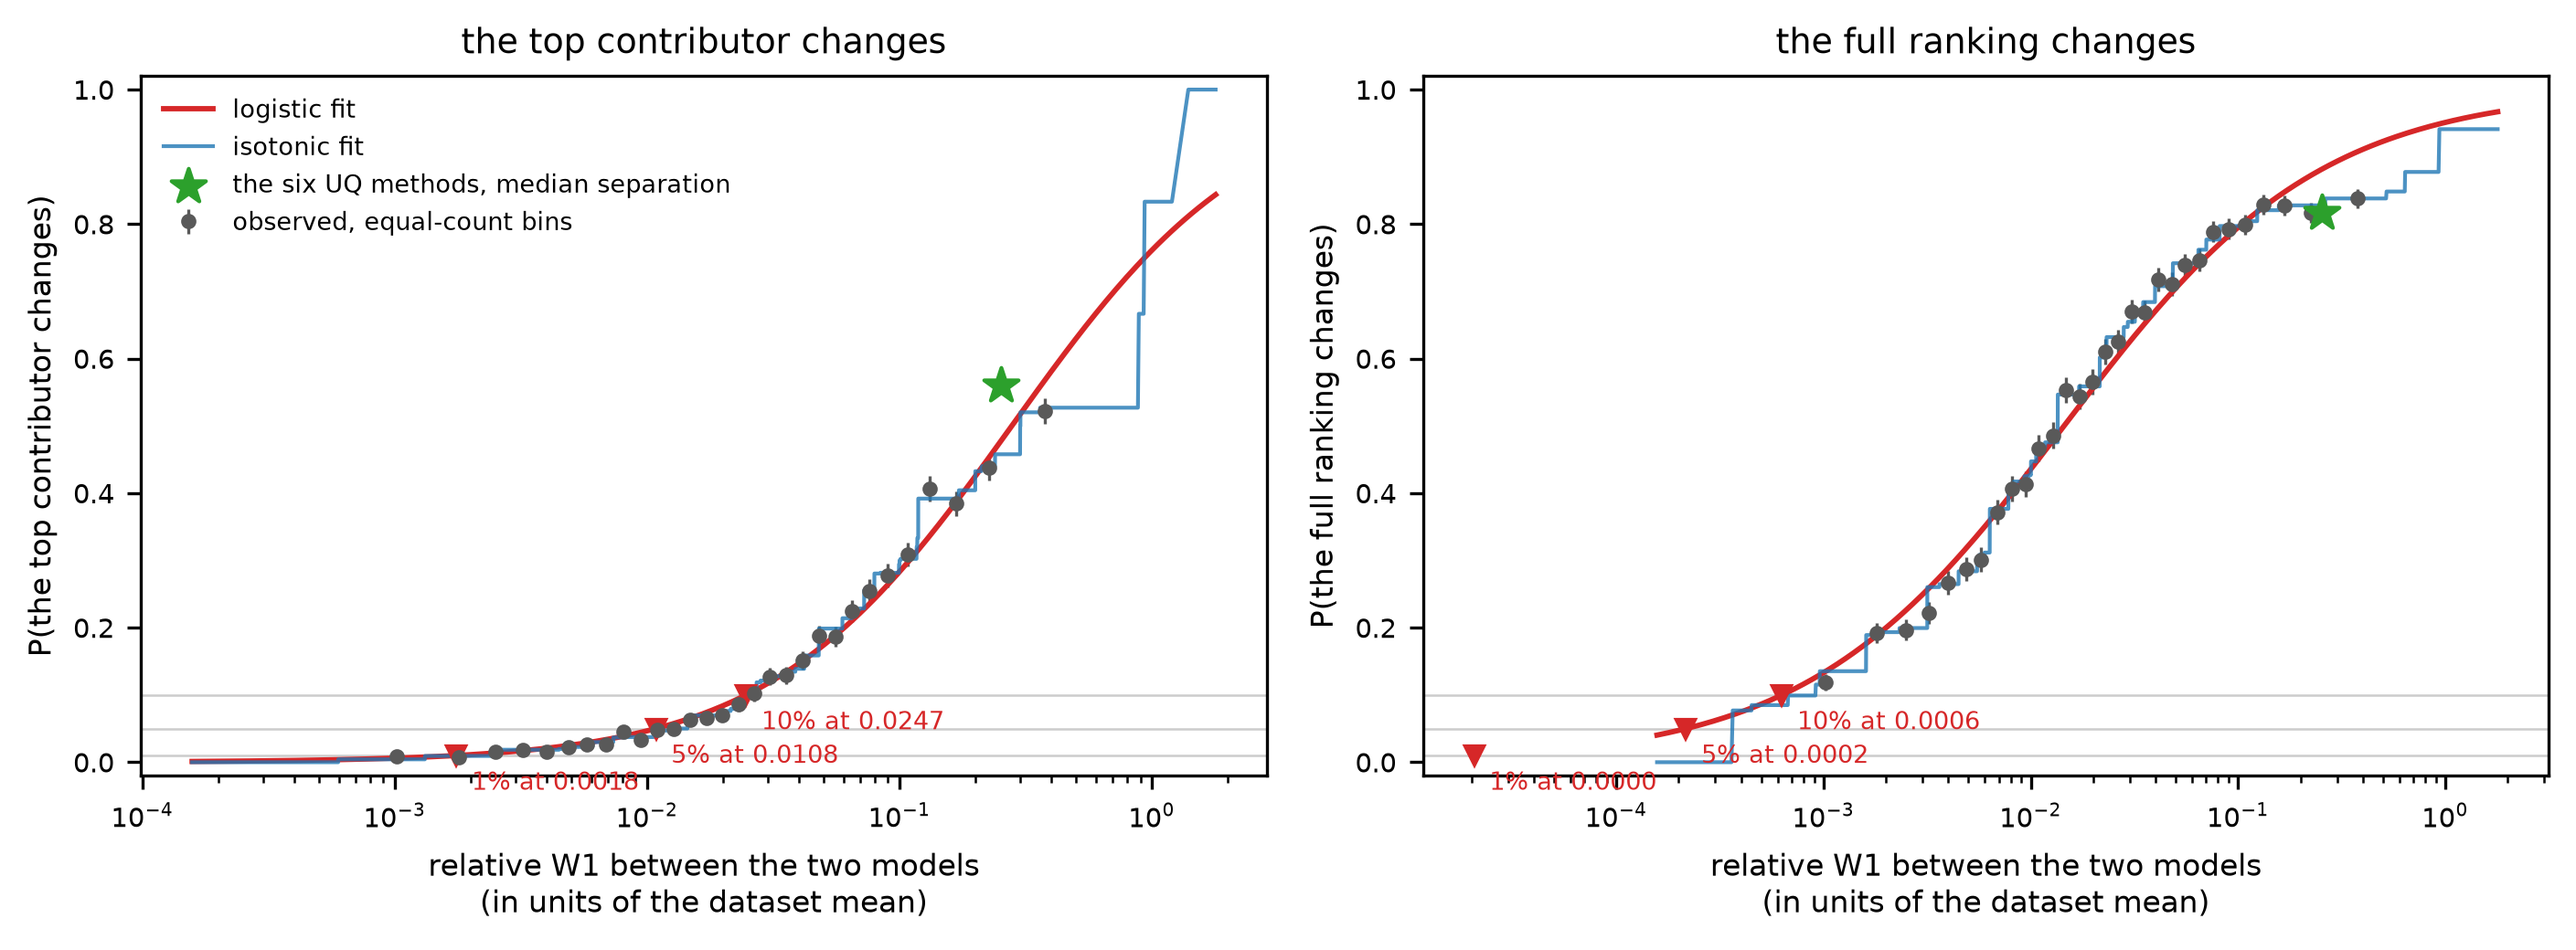
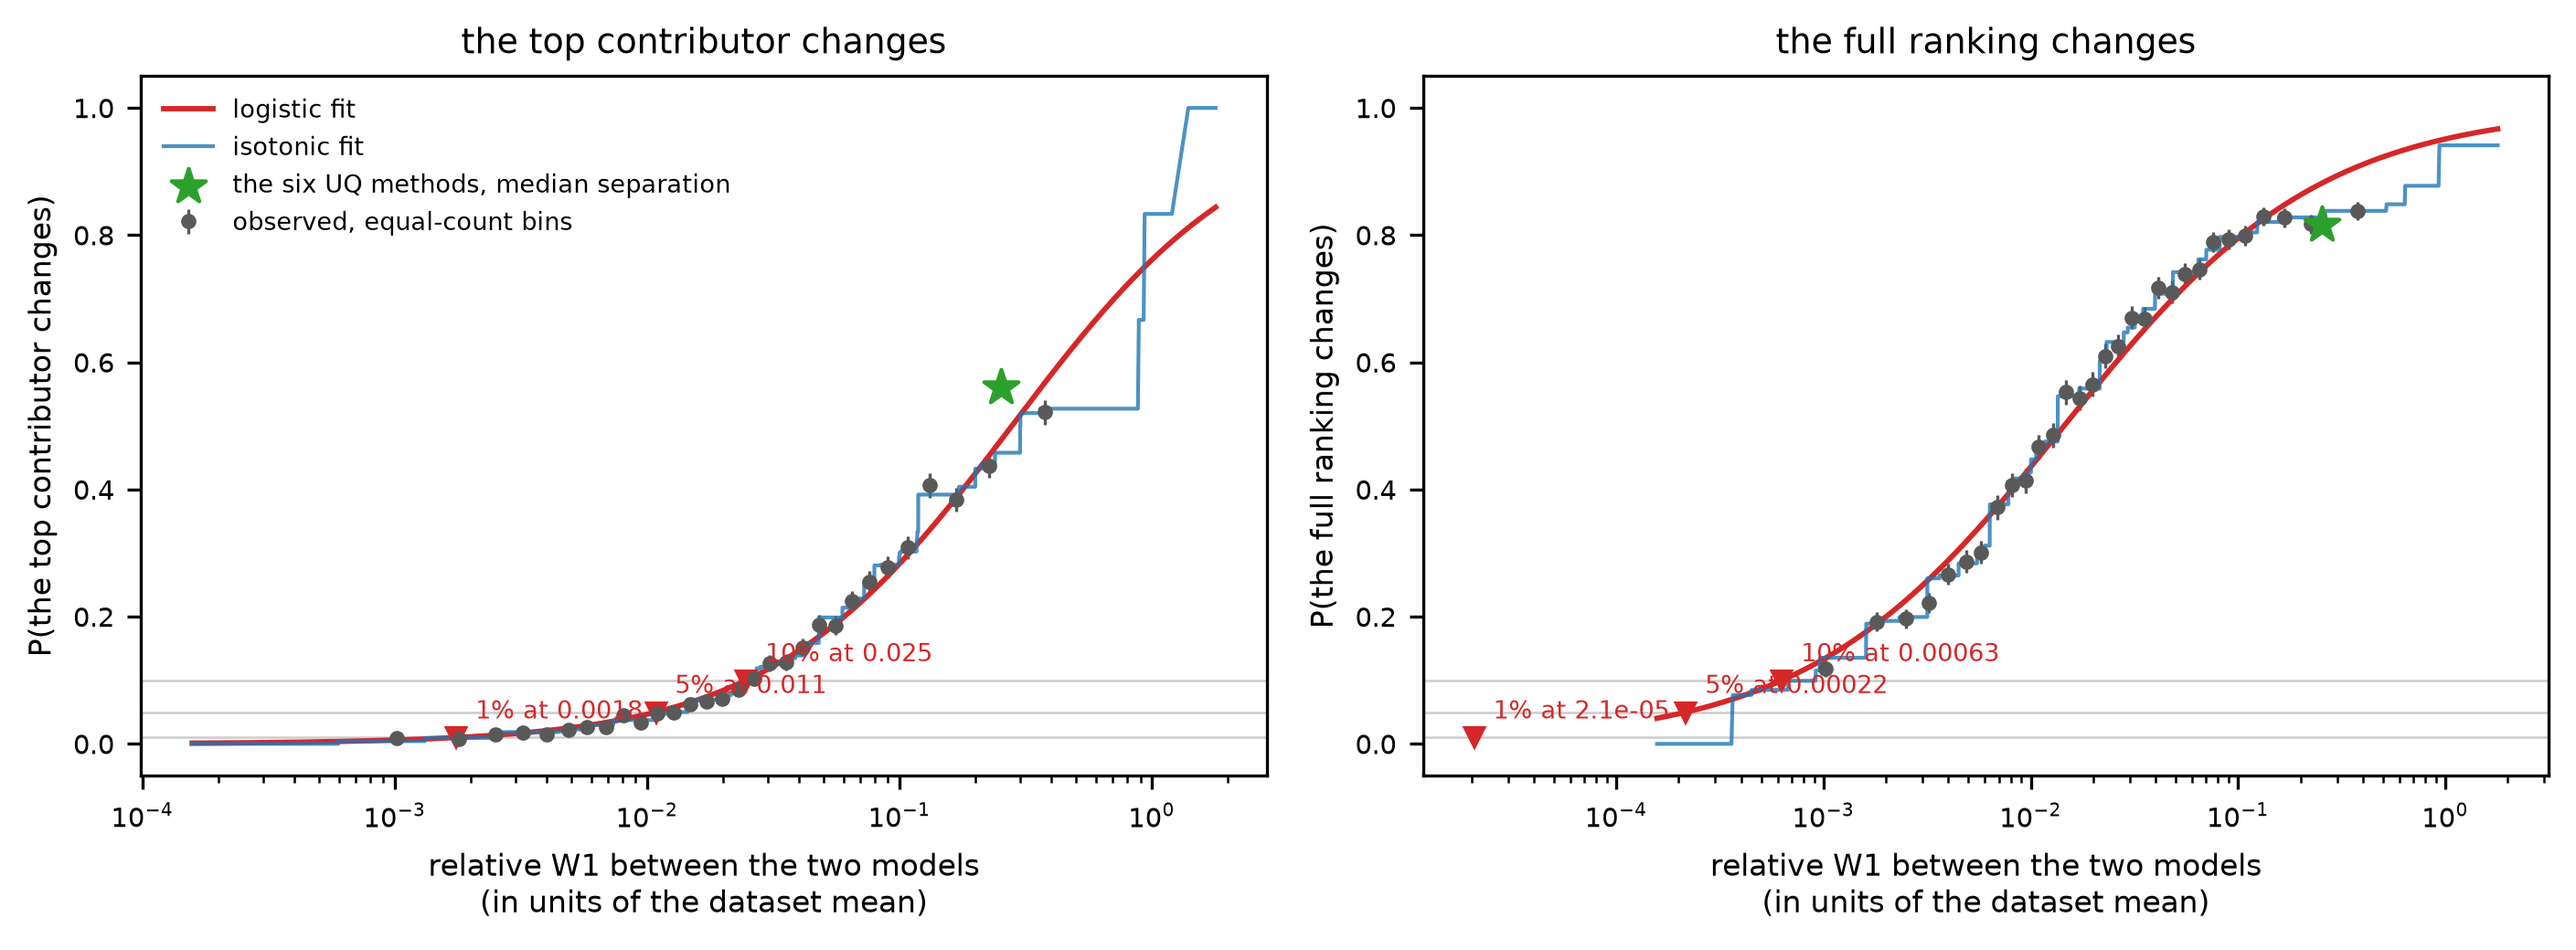
Redraw the calibration figure with readable crossing labels
The 1 percent annotation hung below the axes and the ordering panel's crossing
printed as 0.0000 at four decimal places. Labels now sit above their markers and
carry two significant figures, so the right panel reads 2.1e-05 rather than
zero.

Nothing else moved: TABLE_FlipCrossings.csv is unchanged, TABLE_PLCAResults.csv
is byte-identical again, and the two gzipped tables were reverted because their
contents hash the same and only the gzip timestamp differed.

Handoff: the new-table count corrected to thirteen, and a note that
audits/weighting_measure.py was stopped part-way through its last run when it
was competing with the notebook that writes the paper's tables. It writes only
under the audit directory and nothing reported depends on it.

diff --git a/reports/HANDOFF_stage-2d.md b/reports/HANDOFF_stage-2d.md
@@ -159,7 +159,11 @@ material writes no pLCA result and replaces nothing above it.**
 
 **Three audit scripts** measure what the settings are: how many grid points and
 Dirichlet draws A_IQR needs, the full calibration with its diagnostics, and the
-weighting measures end to end.
+weighting measures end to end. The last of these was stopped part-way through its
+final run, when it was competing for processor time with the notebook that
+produces the paper's own tables; it writes only to the audit directory, nothing
+reported depends on it, and re-running it is a single command. The next Claude
+Code session will find it at `audits/weighting_measure.py`.
 
 ### Two details read off the published paper, as required
 
@@ -515,7 +519,7 @@ corpus; the existing pLCA results table, for the gap analysis only; and the
 published KL2 paper, for the two A_IQR construction details.
 
 **Written.** Two source modules and their two test files; three audit scripts;
-new sections in notebooks 1 and 3; ten new result tables; two new figures, one
+new sections in notebooks 1 and 3; thirteen new result tables; two new figures, one
 showing what drives the weighting risk and one showing the calibration curve;
 five new decisions in the project brief's decision log, numbered 91 through 95,
 and its handoff specification; manuscript discrepancy entries 81 to 87; and this
